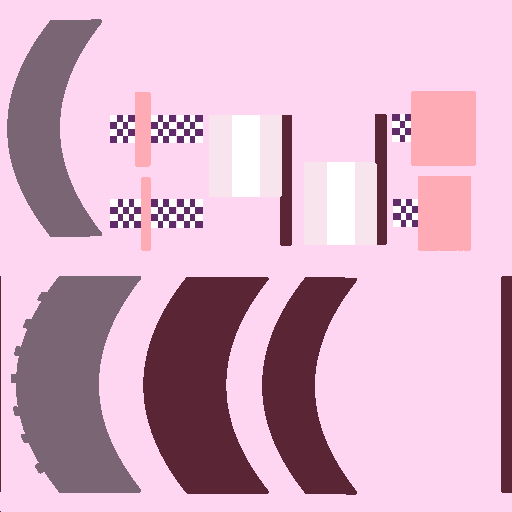
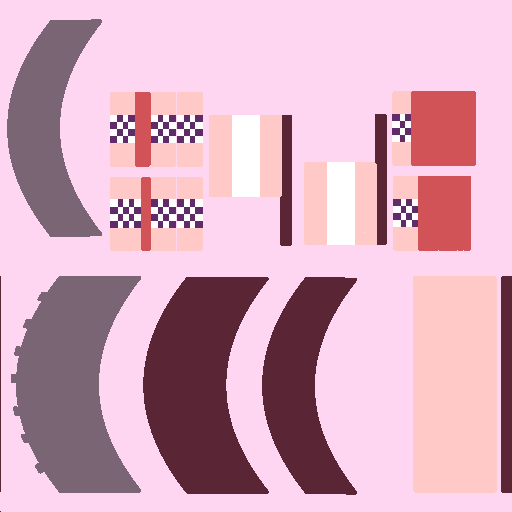
updated bar, door, and menu

diff --git a/main-scene.js b/main-scene.js
@@ -142,9 +142,9 @@ class Main_Scene extends Scene
                 frontWall: new Material( new defs.Textured_Phong( 1 ), { ambient: 0.92, diffusivity: 1, specularity: .5, color: color( 0, 0, 0.1, 1 ) }),
 
                 menuFront: new Material( new defs.Textured_Phong(1), {ambient: 0.5, diffusivity: 1, specularity: 0.5, color: color(0, 0, 0, 1),
-                    texture: new Texture("assets/menufront.png")}),
+                    texture: new Texture("assets/menufront2.png")}),
                 menuBack: new Material( new defs.Textured_Phong(1), {ambient: 0.5, diffusivity: 1, specularity: 0.5, color: color(0, 0, 0, 1),
-                    texture: new Texture("assets/menuback.png")}),
+                    texture: new Texture("assets/menuback2.png")}),
                 stool: new Material( new defs.Textured_Phong( 1 ), { color: jukebox_color, ambient: 1, diffusivity: 1, specularity: 1, 
                     texture: new Texture( "assets/stool_map.png" )}),
                 booth: new Material( new defs.Textured_Phong(1), {ambient: 1, diffusivity: 0.6, specularity: 0.5, color: color(0, 0, 0, 1),
@@ -421,7 +421,7 @@ class Main_Scene extends Scene
             var transformSmoothie2 = Mat4.identity();
             transformSmoothie2 = transformSmoothie2.times(Mat4.translation(-10, 0, 0));
             var transformSmoothie = Mat4.identity();
-            transformSmoothie = transformSmoothie.times(Mat4.translation(-125, 50, 45 - i * boothShiftFactor));
+            transformSmoothie = transformSmoothie.times(Mat4.translation(-125, 50, 40 - i * boothShiftFactor));
             transformSmoothie = transformSmoothie.times(Mat4.scale(0.075,0.075, 0.075));
             transformSmoothie = transformSmoothie.times(boothScaleFactor);
             this.shapes.smoothie.draw(context, program_state, transformSmoothie, this.materials.smoothie);
